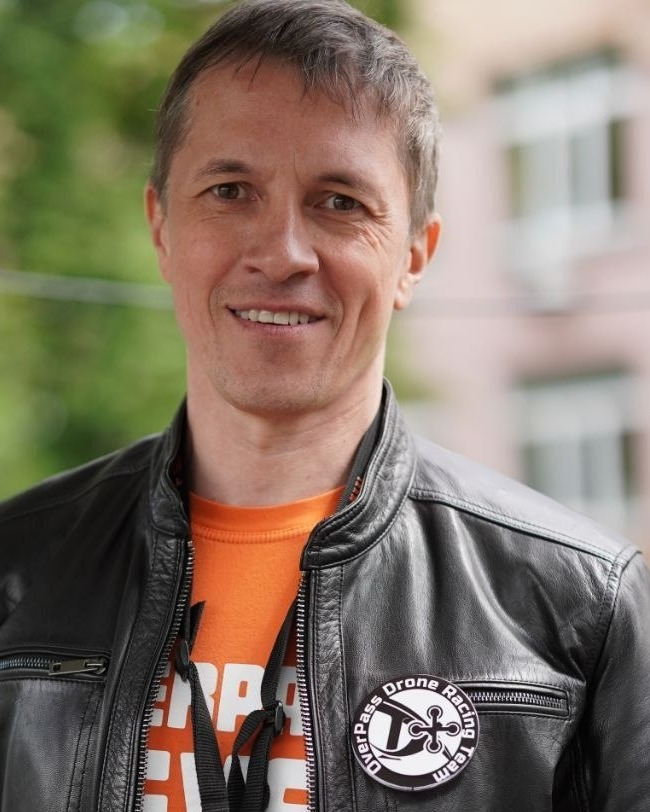
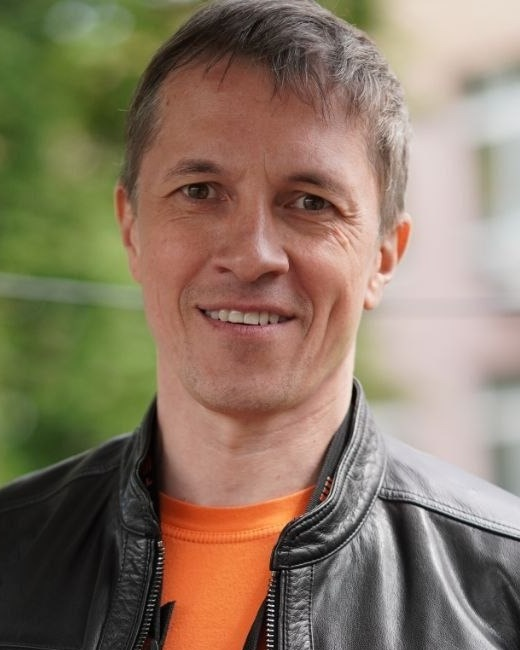
Iliya's portrait, and the two cropped to one scale
Iliya's photograph is in, cropped to the card's 4:5 from a 476x567 original,
so the placeholder is gone and the founders page has no missing image left.

Side by side the pair did not hold together: his picture is a close head
shot, Evgenii's ran from the top of his head to mid-chest, so one face was
nearly twice the size of the other. Evgenii's is now re-cut from the same
original to match, 520x650 instead of 650x812. That also takes the drone-
racing patch and most of the shirt lettering out of frame, which the colour
treatment had only been muting.

Both are now slightly under the 604 px card width — 520 and 453 px — and the
photo inventory calls them tight. It shows only as softness on a large retina
screen, and the same photographs sent as files rather than as photos would
fix it; OPEN-ITEMS.md says so.

Claude-Session: https://claude.ai/code/session_013irb3Vhugr14ZZoUa41pSC

diff --git a/OPEN-ITEMS.md b/OPEN-ITEMS.md
@@ -4,13 +4,13 @@ Everything the site used to say about itself while it was being built now lives
 here instead. Nothing on these lines is visible to a visitor: the pages read as
 finished, and this file is the list to work through.
 
-## Needs a file
+## Portraits
 
-- `static/img/founders/bolshakov.jpg` — Iliya's portrait. Evgenii's is in place,
-  cropped from the photograph supplied on 9 November. Any phone picture works if
-  it is sent as a *file* rather than as a photo, which is what shrank the first
-  one to 853 px. Both portraits are rendered at 4:5 and held back to a little
-  over a third of their colour, so a casual snapshot settles in fine.
+Both are in place and cropped to the same face scale, so the pair reads as a
+set. Both are a little under the 604 px card width — Evgenii's at 520 px,
+Iliya's at 453 — which shows as slight softness on a large retina screen and
+nowhere else. The fix costs nothing: the same photographs sent as *files* in
+Telegram, not as photos, arrive at full resolution.
 
 ## Project descriptions — written from the photographs, not from the founders
 
